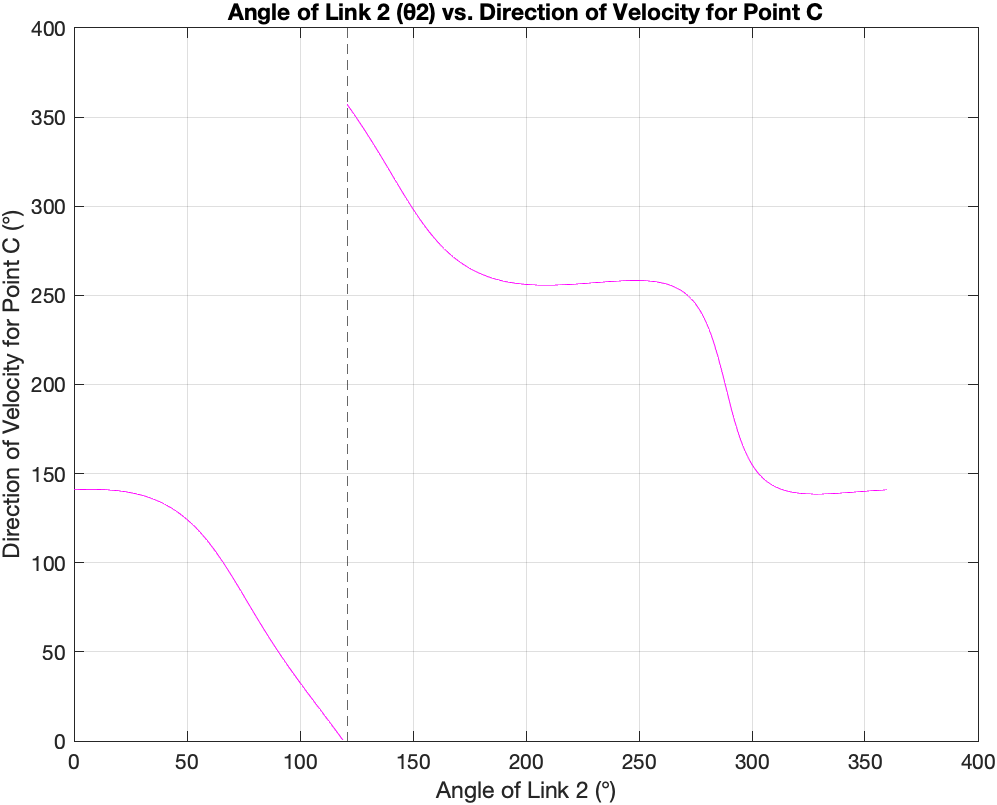
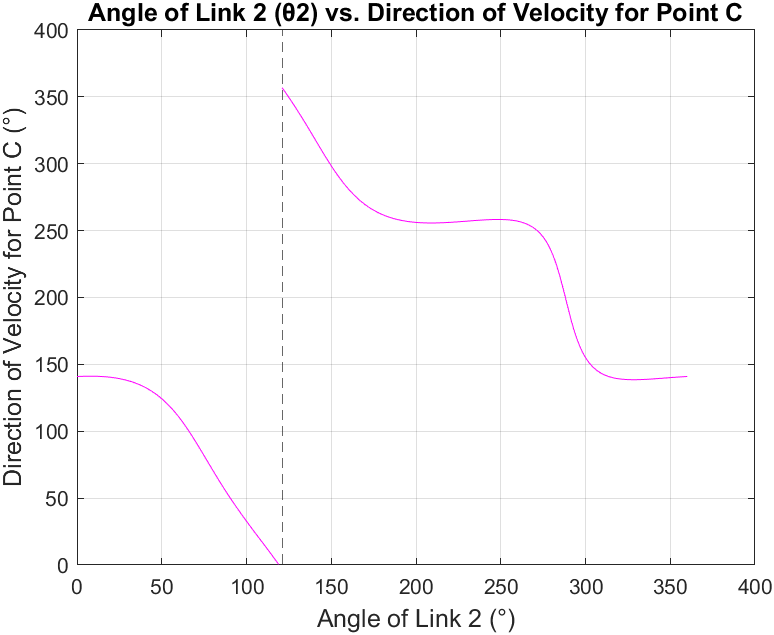
Update plots

diff --git a/main.m b/main.m
@@ -62,10 +62,10 @@ theta_3_ddot = link3_info(6,:);
 
 % θ2 vs θ3_dot
 plot(theta_2, theta_3_dot, '-b');
-title('Angle of Link 2 (θ2) vs. Angular Velocity of Link 3 (rad/s)');
+title('Angle of Link 2 (θ2) vs. Angular Velocity of Link 3 (rad/s)', 'FontSize', 12);
 grid('on');
-xlabel('Angle of Link 2 (°)');
-ylabel('Angular Velocity of Link 3 (rad/s)');
+xlabel('Angle of Link 2 (°)', 'FontSize', 12);
+ylabel('Angular Velocity of Link 3 (rad/s)', 'FontSize', 12);
 ax = gca; % Save image
 ttl = sprintf('plots/plot_%d.png', image_num);
 exportgraphics(ax,ttl);
@@ -73,10 +73,10 @@ image_num = image_num +1;
 
 % θ2 vs θ3_ddot
 plot(theta_2, theta_3_ddot, '-m');
-title('Angle of Link 2 (θ2) vs. Angular Acceletation of Link 3 (rad/s^s)');
+title('Angle of Link 2 (θ2) vs. Angular Acceleration of Link 3 (rad/s^2)', 'FontSize', 12);
 grid('on');
-xlabel('Angle of Link 2 (°)');
-ylabel('Angular Acceletation of Link 3 (rad/s^s)');
+xlabel('Angle of Link 2 (°)', 'FontSize', 12);
+ylabel('Angular Acceletation of Link 3 (rad/s^s)', 'FontSize', 12);
 ax = gca; % Save image
 ttl = sprintf('plots/plot_%d.png', image_num);
 exportgraphics(ax,ttl);
@@ -89,18 +89,18 @@ image_num = image_num +1;
 
 
 
-%%%%%%%%%%%%%%%%%%%%%
-%  Solving Point C  %
-%%%%%%%%%%%%%%%%%%%%%
+%%%%%%%%%%%%%%%%%%%%%%%%%%%%%%
+%  Solving Point C (1. & 3.) %
+%%%%%%%%%%%%%%%%%%%%%%%%%%%%%%
 
 [C_info, v_d_pts, a_d_pts] = solve_C(r2, theta_2, theta_2_dot, theta_2_ddot, r_bc, link3_info);
 
 % θ2 vs Displacement of Point C
 plot(theta_2, C_info(1,:), '-b');
-title('Angle of Link 2 (θ2) vs. Displacement of Point C (Rc)');
+title('Angle of Link 2 (θ2) vs. Displacement of Point C (Rc)', 'FontSize', 12);
 grid('on');
-xlabel('Angle of Link 2 (°)');
-ylabel('Displacement of Point C (cm)');
+xlabel('Angle of Link 2 (°)', 'FontSize', 12);
+ylabel('Displacement of Point C (cm)', 'FontSize', 12);
 ax = gca; % Save image
 ttl = sprintf('plots/plot_%d.png', image_num);
 exportgraphics(ax,ttl);
@@ -108,10 +108,10 @@ image_num = image_num +1;
 
 % θ2 vs Direction Angle of Point C
 plot(theta_2, C_info(2,:), '-m');
-title('Angle of Link 2 (θ2) vs. Direction Angle of Point C (θc)');
+title('Angle of Link 2 (θ2) vs. Direction Angle of Point C (θc)', 'FontSize', 12);
 grid('on');
-xlabel('Angle of Link 2 (°)');
-ylabel('Displacement of Point C (°)');
+xlabel('Angle of Link 2 (°)', 'FontSize', 12);
+ylabel('Displacement of Point C (°)', 'FontSize', 12);
 ax = gca; % Save image
 ttl = sprintf('plots/plot_%d.png', image_num);
 exportgraphics(ax,ttl);
@@ -119,10 +119,10 @@ image_num = image_num +1;
 
 % θ2 vs Velocity of Point C
 plot(theta_2, C_info(3,:), '-b');
-title('Angle of Link 2 (θ2) vs. Velocity of Point C (Rc)');
+title('Angle of Link 2 (θ2) vs. Velocity of Point C (Rc)', 'FontSize', 12);
 grid('on');
-xlabel('Angle of Link 2 (°)');
-ylabel('Velocity of Point C (cm/s)');
+xlabel('Angle of Link 2 (°)', 'FontSize', 12);
+ylabel('Velocity of Point C (cm/s)', 'FontSize', 12);
 ax = gca; % Save image
 ttl = sprintf('plots/plot_%d.png', image_num);
 exportgraphics(ax,ttl);
@@ -130,10 +130,10 @@ image_num = image_num +1;
 
 % θ2 vs Direction of Velocity for Point C
 plot(theta_2, C_info(4,:), '-m');
-title('Angle of Link 2 (θ2) vs. Direction of Velocity for Point C');
+title('Angle of Link 2 (θ2) vs. Direction of Velocity for Point C', 'FontSize', 12);
 grid('on');
-xlabel('Angle of Link 2 (°)');
-ylabel('Direction of Velocity for Point C (°)');
+xlabel('Angle of Link 2 (°)', 'FontSize', 12);
+ylabel('Direction of Velocity for Point C (°)', 'FontSize', 12);
 for i = 1:length(v_d_pts)
     xline(v_d_pts(i),'--')
 end
@@ -144,10 +144,10 @@ image_num = image_num +1;
 
 % θ2 vs Acceleration of Point C
 plot(theta_2, C_info(5,:), '-b');
-title('Angle of Link 2 (θ2) vs. Acceleration of Point C (Rc)');
+title('Angle of Link 2 (θ2) vs. Acceleration of Point C (Rc)', 'FontSize', 12);
 grid('on');
-xlabel('Angle of Link 2 (°)');
-ylabel('Acceleration of Point C (cm/s^2)');
+xlabel('Angle of Link 2 (°)', 'FontSize', 12);
+ylabel('Acceleration of Point C (cm/s^2)', 'FontSize', 12);
 ax = gca; % Save image
 ttl = sprintf('plots/plot_%d.png', image_num);
 exportgraphics(ax,ttl);
@@ -155,10 +155,10 @@ image_num = image_num +1;
 
 % θ2 vs Direction of Acceleration for Point C
 plot(theta_2, C_info(6,:), '-m');
-title('Angle of Link 2 (θ2) vs. Direction of Acceleration for Point C');
+title('Angle of Link 2 (θ2) vs. Direction of Acceleration for Point C', 'FontSize', 12);
 grid('on');
-xlabel('Angle of Link 2 (°)');
-ylabel('Direction of Acceleration for Point C (°)');
+xlabel('Angle of Link 2 (°)', 'FontSize', 12);
+ylabel('Direction of Acceleration for Point C (°)', 'FontSize', 12);
 for i = 1:length(a_d_pts)
     xline(a_d_pts(i),'--')
 end
@@ -209,18 +209,36 @@ to_Newtons_Meters = to_Newtons * 1/100; % 1/100 to get to N*m
 
 F12x = X_info(1,:) * to_Newtons;
 F12y = X_info(2,:) * to_Newtons;
-Mo2 = X_info(3,:) * to_Newtons_Meters;
+M12 = X_info(3,:) * to_Newtons_Meters;
 F32x = X_info(4,:) * to_Newtons;
 F32y = X_info(5,:) * to_Newtons;
 F43 = X_info(6,:) * to_Newtons;
 F14x = X_info(7,:) * to_Newtons;
 F14y = X_info(8,:) * to_Newtons;
 
-% Get shaking Force and Moment,
-[Fs, Fs_direction] = get_shaking_force(-F12x, -F12y, -F14x, -F14y);
-Ms = get_shaking_moment(F14x, F14y, Mo2, r1, r4);
+% Magnitudes of Link Forces
+F12 = sqrt( (F12x).^2 + (F12y).^2 );
+F32 = sqrt( (F32x).^2 + (F32y).^2 );
+F14 = sqrt( (F14x).^2 + (F14y).^2 );
 
+%%%%%%%%%%%%%%%%%%%%%%%%%%%%%%%%%%%%%%
+% POLAR PLOTS of FORCES ON LINK (4.) %
+%%%%%%%%%%%%%%%%%%%%%%%%%%%%%%%%%%%%%%
+
+% θ2 vs F12
+polarplot(deg2rad(theta_2), F12);
+title
+title('Angle of Link 2 (θ2) vs. Direction of Acceleration for Point C');
+
+
+
+% Get shaking Force and Moment, input should be opposite force
+[Fs, Fs_direction] = get_shaking_force(-F12x, -F12y, -F14x, -F14y);
+Ms = get_shaking_moment(-F14x, -F14y, -M12, r1, r4);
 
 % Polar plot
 polarplot(deg2rad(theta_2), Fs);
-polarplot(deg2rad(theta_2), Ms);
+
+
+
+plot(theta_2, Ms);

diff --git a/get_shaking_moment.m b/get_shaking_moment.m
@@ -1,4 +1,4 @@
-function Ms = get_shaking_moment(F41x, F41y, Mo2, r1, r4)
+function Ms = get_shaking_moment(F41x, F41y, M21, r1, r4)
 
 % This function calculates the shaking moment
 
@@ -6,6 +6,6 @@ function Ms = get_shaking_moment(F41x, F41y, Mo2, r1, r4)
 r1 = r1/100;
 r4 = r4/100;
 
-Ms = Mo2 + (F14x * r4) + (F14y * r1);
+Ms = M21 - (F41x * r4) - (F41y * r1);
 
 end

diff --git a/get_shaking_force.m b/get_shaking_force.m
@@ -1,7 +1,7 @@
 function [Fs,Fs_angle] = get_shaking_force(F21x,F21y, F41x, F41y)
 
-Fsx = Fo22x + F41x;
-Fsy = Fo22y + F41y;
+Fsx = F21x + F41x;
+Fsy = F21y + F41y;
 
 % Magnitude
 Fs = sqrt( (Fsx).^2 + (Fsy).^2 );
